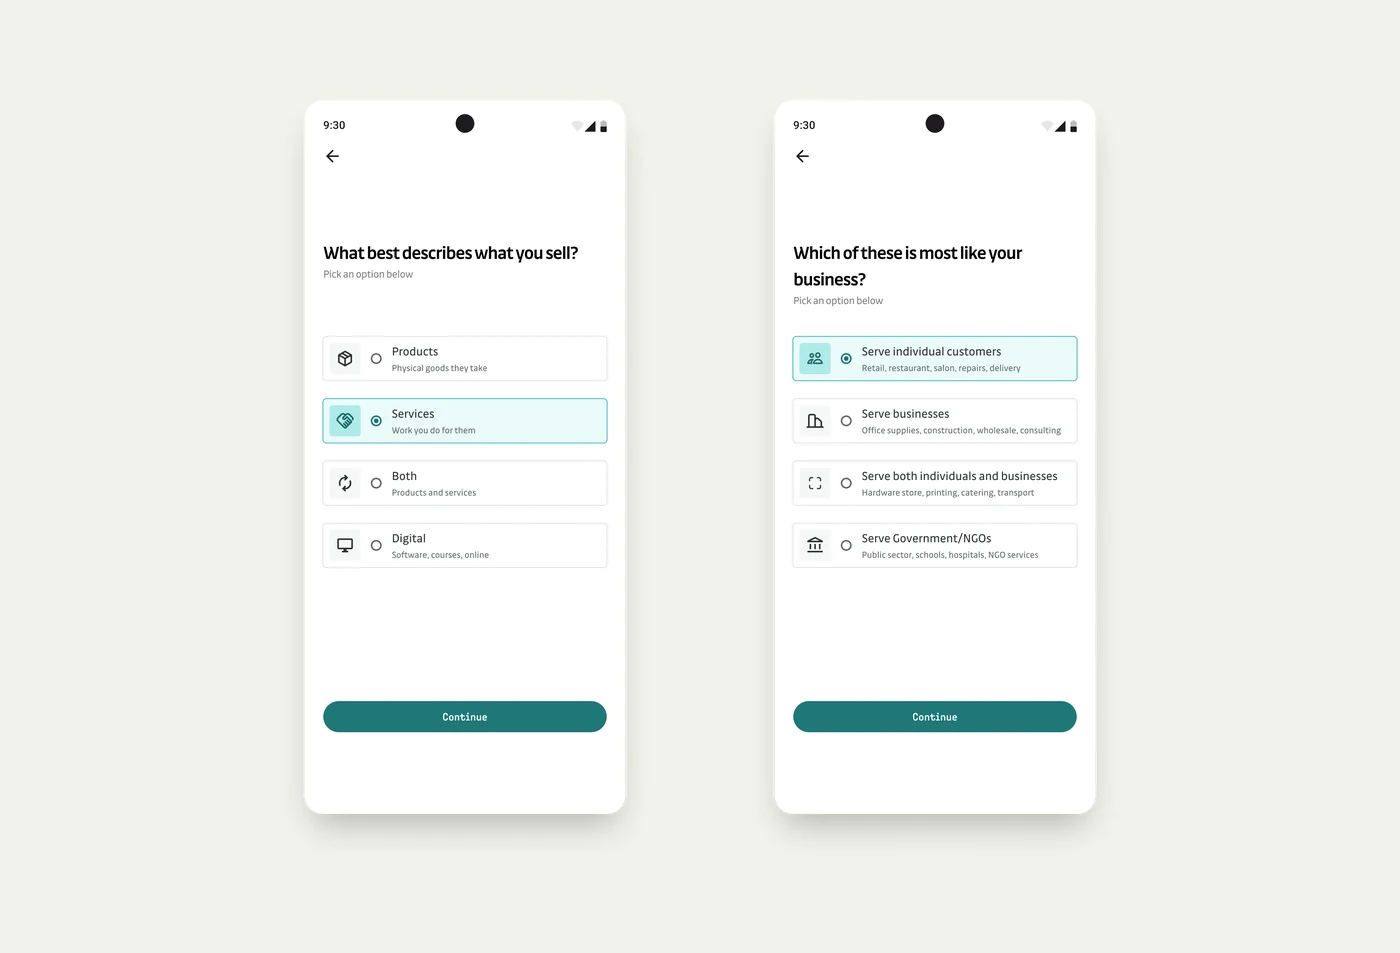
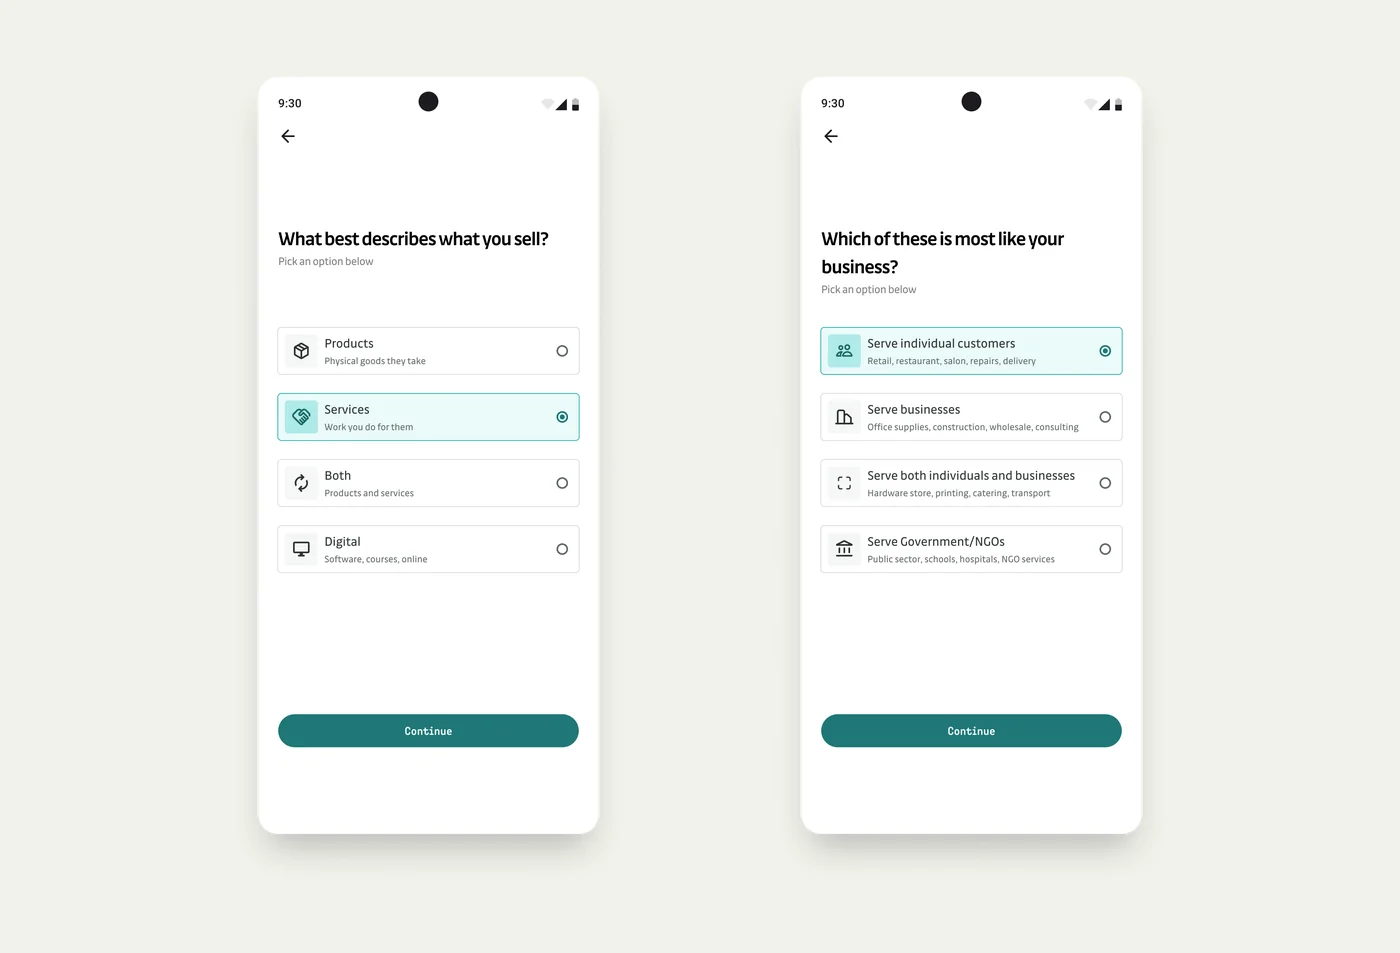
Add D2E screens for return states, record copy and capture
Fills two hidden slots with composites of the updated screens, adds a
capture figure under Key decisions, and refreshes the business model
image with the updated radio icons.

Claude-Session: https://claude.ai/code/session_017QuMxoCp4WNp2Yo6vGe8o1

diff --git a/case-study-d2e.html b/case-study-d2e.html
@@ -165,6 +165,10 @@
                     <figcaption>Two questions added after testing, so the AI starts from the owner's own answer instead of a guess.</figcaption>
                 </figure>
                 <p><strong>Put an example in every reflection prompt.</strong> "What did you discover? Example: 'Corporate clients pay in 7 days'." An empty box asks owners to work out what we want. An example shows them, in seconds.</p>
+                <figure class="cs-figure">
+                    <img src="images/d2e-capture.webp" width="1400" height="953" loading="lazy" alt="Two mobile screens. The first, Record what you did, offers three options: add a photo, add a note, or just tap Done. The second confirms You completed the action, and says details can be added later from the Finance page.">
+                    <figcaption>Recording what they did became one tap: a photo, a note or just Done. Skipping the details still counts the action.</figcaption>
+                </figure>
                 <p><strong>Say where the data goes, at the moment of return.</strong> "Your data stays private. We don't share unless you choose to." The landing page had already shown people were interested but cautious. This line sits exactly where that caution would stop them.</p>
                 <p><strong>Make memory visible.</strong> "Last week you discovered [X]. Let's build on that." The product already carried last week forward, but 2 of 7 owners only noticed when we pointed it out. Owners asked for someone checking in on them, so the check-in has to show it remembers.</p>
                 <p><strong>Design for the phone.</strong> One question per screen, no PDFs or spreadsheets, chat-style interaction where it fits. 91% of visitors were on a phone, and "if it is complicated, I would not use it."</p>
@@ -186,13 +190,15 @@
                 <p><strong>Name things the way owners think.</strong> "Readiness score" became "Practice score". Readiness implies the owner isn't ready yet, and these owners are already operating. Rounds became "Check-in" plus a date, not "Week 3" or "Loop 3". A week number turns a missed week into a visible failure, and a date gives the same sense of progress without demanding a rhythm.</p>
                 <p><strong>Invite owners back without guilt.</strong> Research told us these owners were already "doing everything", so the next check-in is triggered by what they did, not by the calendar. Finishing an action earns the invitation: "Your last Finance action is complete. See how it affected your score." If nothing happens for a week, there is one nudge that names their action, then silence. There are no streaks and no "you missed" messages. Coming back after a month gets "Good to have you back" and a record that is still intact.</p>
                 <figure class="cs-figure">
-                    <!-- TODO: replace with <img src="images/d2e-return-states.webp" alt="..."> -->
-                    <div class="cs-figure-placeholder">Image: the Home screen across five loop states, from fresh user to returning after a gap</div>
+                    <img src="images/d2e-return-states.webp" width="1401" height="953" loading="lazy" alt="Three mobile screens. A check-in complete screen for Finance with the practice score updated. Home after the check-in, with the overall score up 3 points, a note that Sales might need attention next, and Sales marked as recommended. Home for an owner returning after a gap, headed Good to have you back, with a Take a check-in button and each area showing its score and last check-in.">
+                    <figcaption>After a check-in, Home points to the area worth attention next. After a gap, it welcomes the owner back with their record intact.</figcaption>
                 </figure>
                 <p><strong>Let the words change as the record grows.</strong> The line after each check-in reads differently the first time, the second, the third and after a gap. "That's the starting point. Next time, we'll compare" becomes "Last check-in you started tracking sales. This time you added expenses." The product shows memory in its words, which was the fix for the 2 of 7 owners who missed it.</p>
-                <figure class="cs-figure">
-                    <!-- TODO: replace with <img src="images/d2e-copy-system.webp" alt="..."> -->
-                    <div class="cs-figure-placeholder">Image: the same record message across first, second and third check-ins, a score drop and a long gap</div>
+                <figure class="cs-figure cs-figure--wide">
+                    <div class="cs-figure-scroll" tabindex="0" role="group" aria-label="Record message variations, scrolls sideways">
+                        <img src="images/d2e-copy-system.webp" width="2255" height="953" loading="lazy" alt="Five versions of the Record what you did screen, each with a different message. Second check-in: Last check-in you started tracking sales. This time you added expenses. Third check-in: Your third Finance check-in. These practices are becoming a habit. After a month: Your Finance practices have been consistent for a month, up 12 points since you started. After a score drop: Showing up matters, especially when things shift. This check-in is part of the recovery. After a 3-week gap: No gap erases what you built. Your previous records are still here.">
+                    </div>
+                    <figcaption>One message, five moments: the second check-in, the third, a month in, after a score drop and after a 3-week gap. Scroll sideways to follow it.</figcaption>
                 </figure>
 
                 <h2>Outcome</h2>
